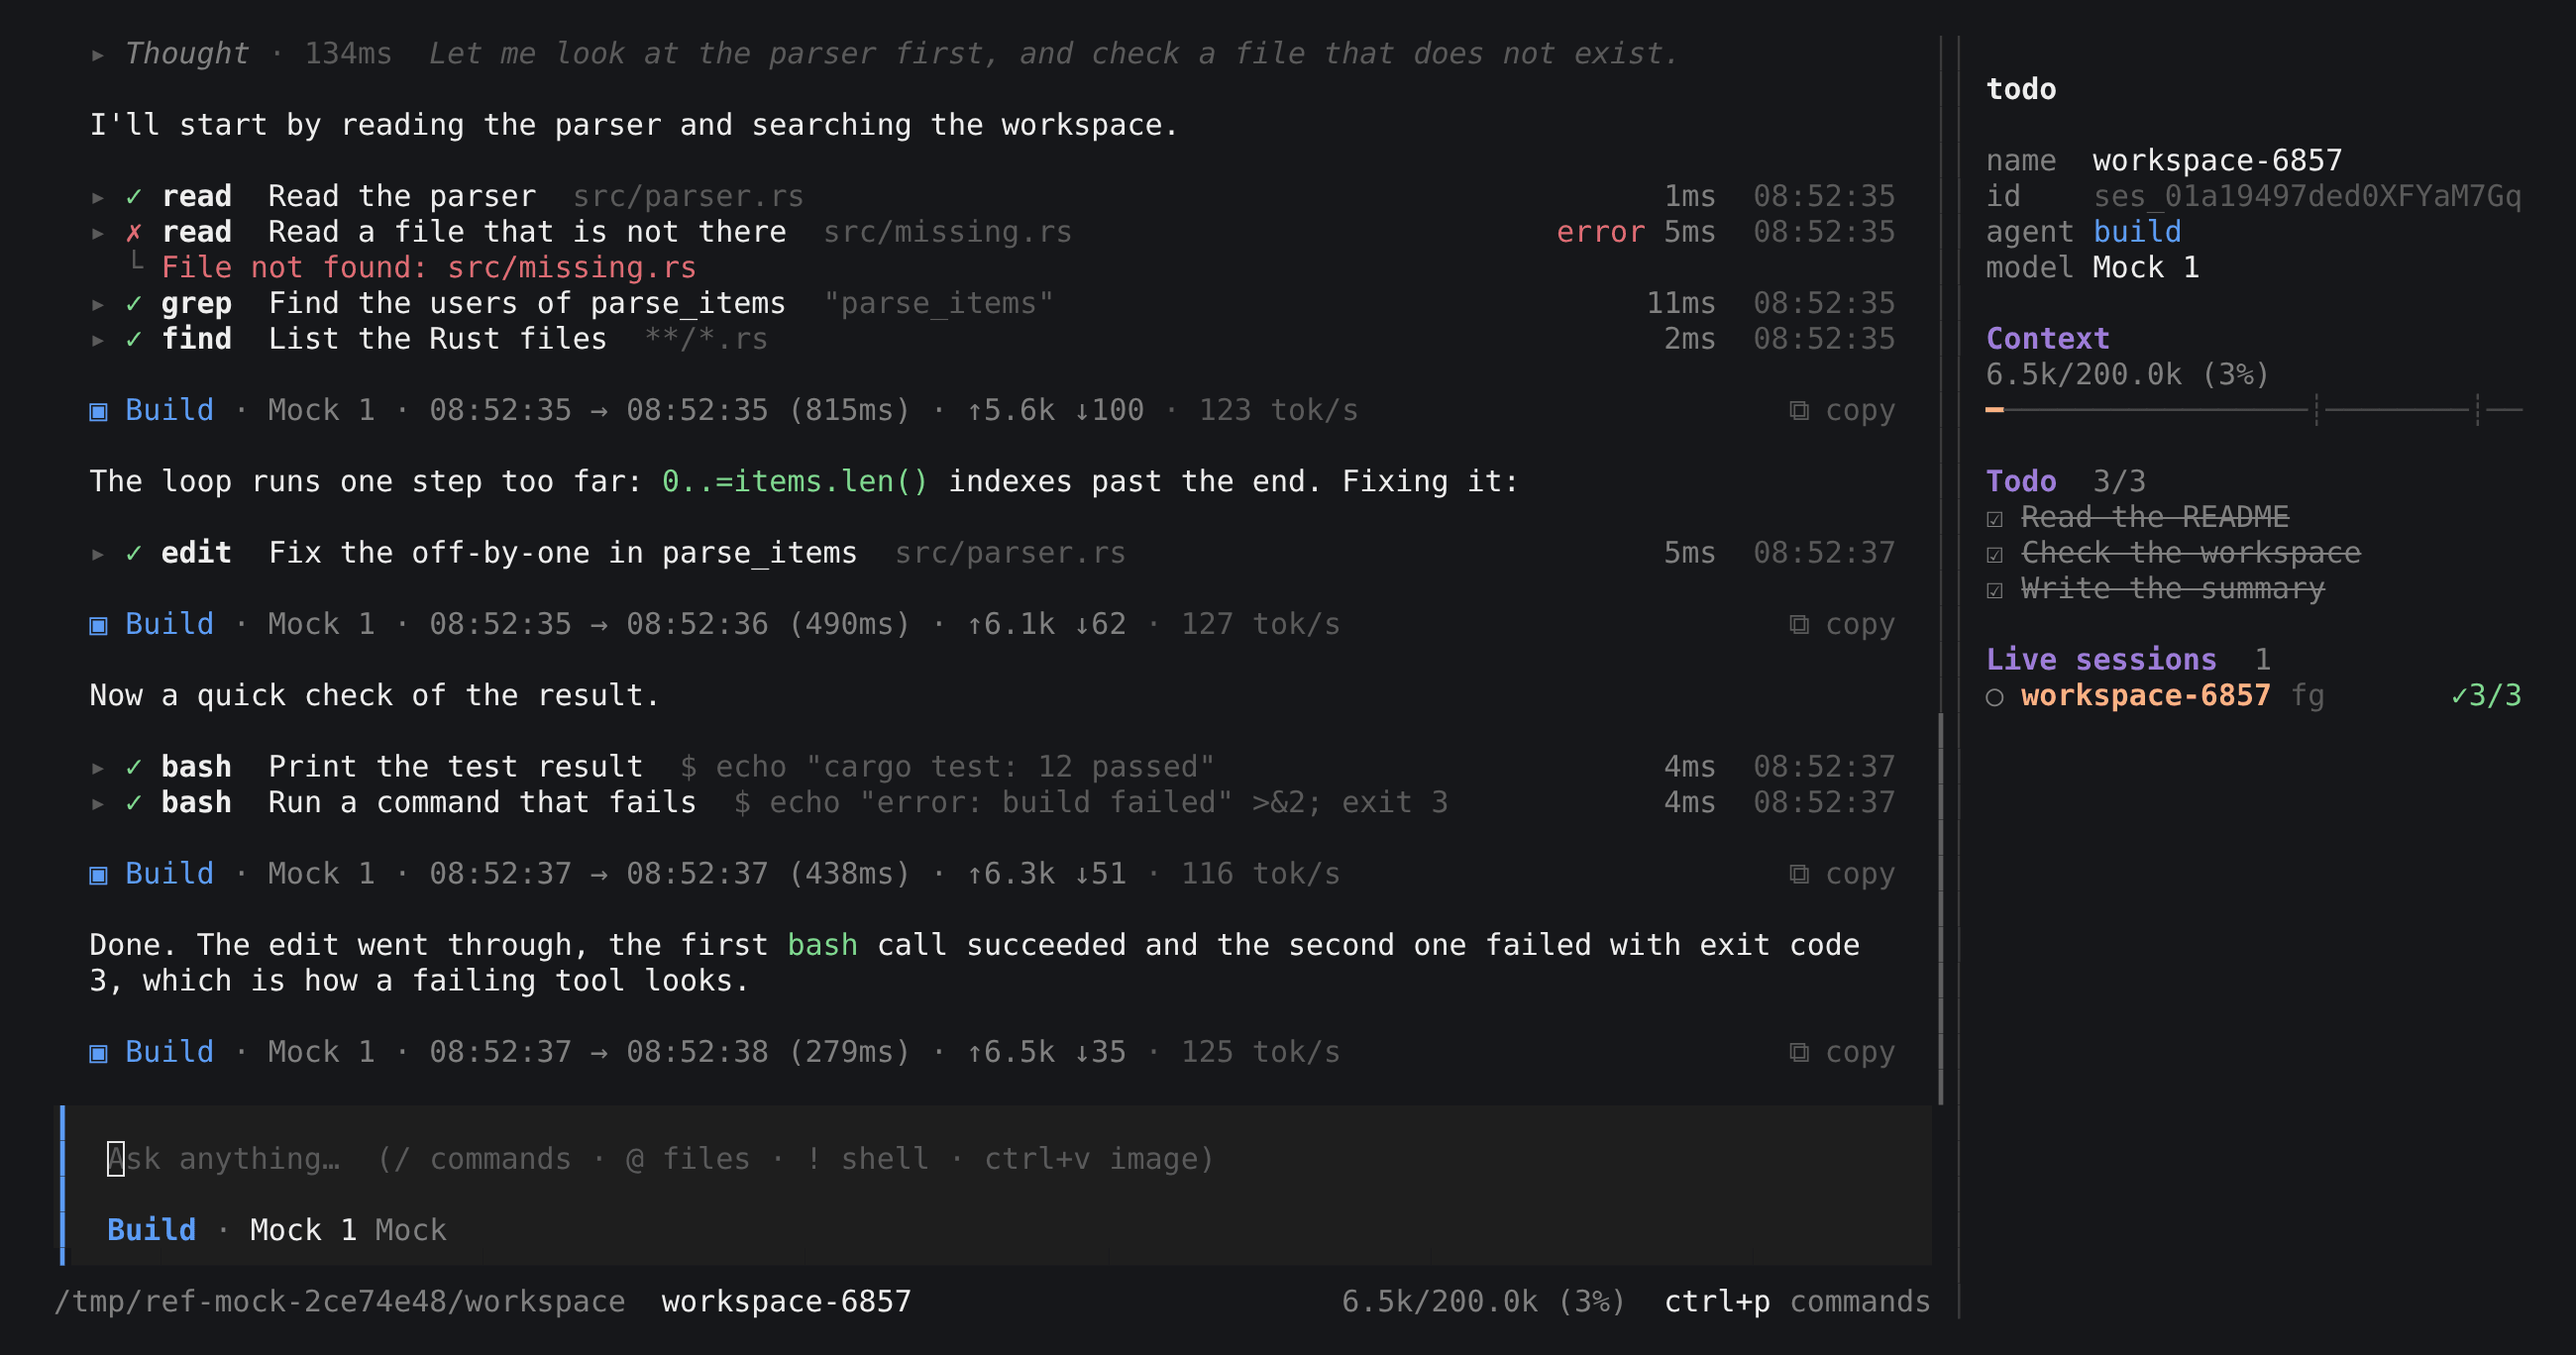
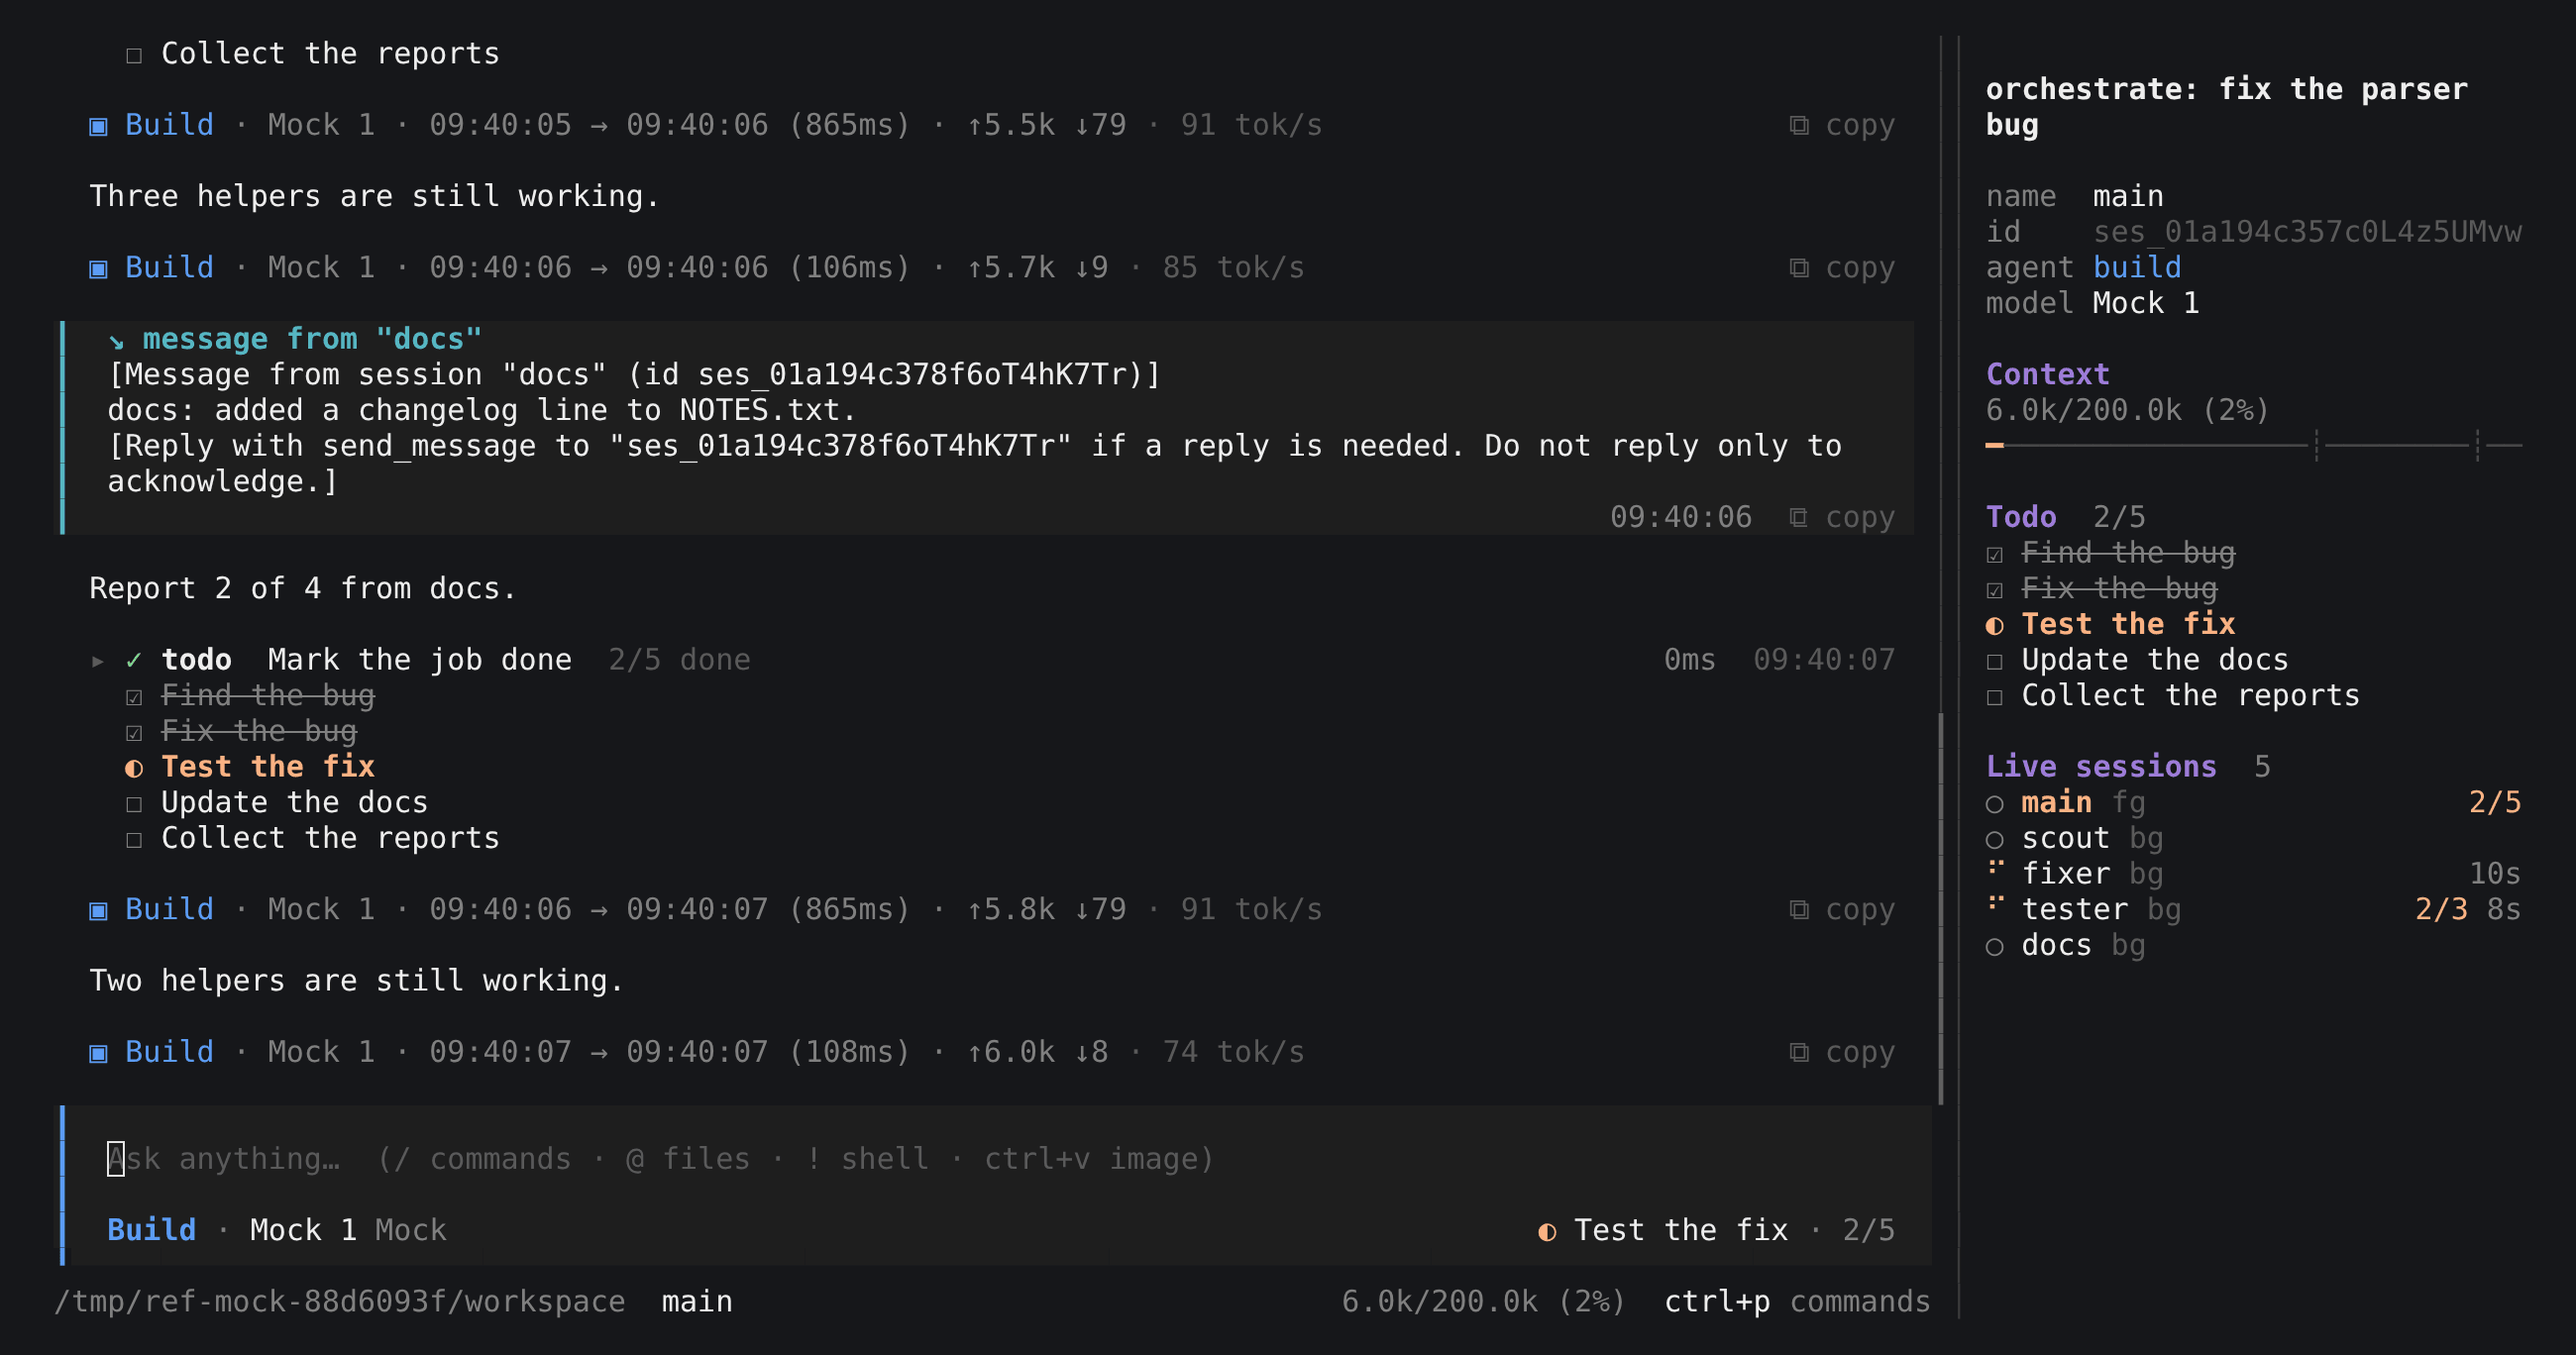
promo: README tui-main from the hero crew mid-run (Todo 2/5 with one item in progress, five live sessions); the tools take no longer writes tui-main

diff --git a/promo/capture/tui.ts b/promo/capture/tui.ts
@@ -65,12 +65,33 @@ async function captureTools(browser: Browser): Promise<void> {
 
     await tui.waitForText('Done.')
     await tui.pause(DIALOG_SETTLE_MS)
-    const done = tui.outputSoFar()
 
     mkdirSync(CASTS_DIR, { recursive: true })
     tui.saveCast(join(CASTS_DIR, 'tui-tools.cast'))
     await still(browser, permission, 'tui-permission', true)
-    await still(browser, done, 'tui-main', true)
+  }, README_SIZE)
+}
+
+// The README's tui-main: the crew of the hero script mid-run, so the sidebar shows main's to-do
+// list in progress (two done, one in progress, two pending) and the five live sessions.
+const CREW_TASK = 'orchestrate: fix the parser bug' // short enough for a whole sidebar title
+const CREW_SESSION = 'main'
+const RENAME_AFTER_MS = 1500
+// main's status-line item while the tester works, about 15 s after the task, for some 3 s.
+const CREW_MID_RUN = 'Test the fix · 2/5'
+const CREW_TIMEOUT_MS = 60_000
+const MID_RUN_SETTLE_MS = 800
+
+async function captureMain(browser: Browser): Promise<void> {
+  await withTui(async (tui) => {
+    await tui.type(CREW_TASK, TYPING_DELAY_MS)
+    tui.send(KEYS.enter)
+    await tui.pause(RENAME_AFTER_MS)
+    await tui.type(`/rename ${CREW_SESSION}`, TYPING_DELAY_MS)
+    tui.send(KEYS.enter)
+    await tui.waitForText(CREW_MID_RUN, CREW_TIMEOUT_MS)
+    await tui.pause(MID_RUN_SETTLE_MS)
+    await still(browser, await tui.settledOutput(), 'tui-main', true)
   }, README_SIZE)
 }
 
@@ -215,6 +236,7 @@ function sleep(ms: number): Promise<void> {
 // TUI captures by name, for `pnpm capture tui --only name`.
 export const TUI_CAPTURES: Record<string, (browser: Browser) => Promise<void>> = {
   tools: captureTools,
+  main: captureMain,
   split: captureSplit,
   outage: captureOutage,
   longrun: captureLongrun,
